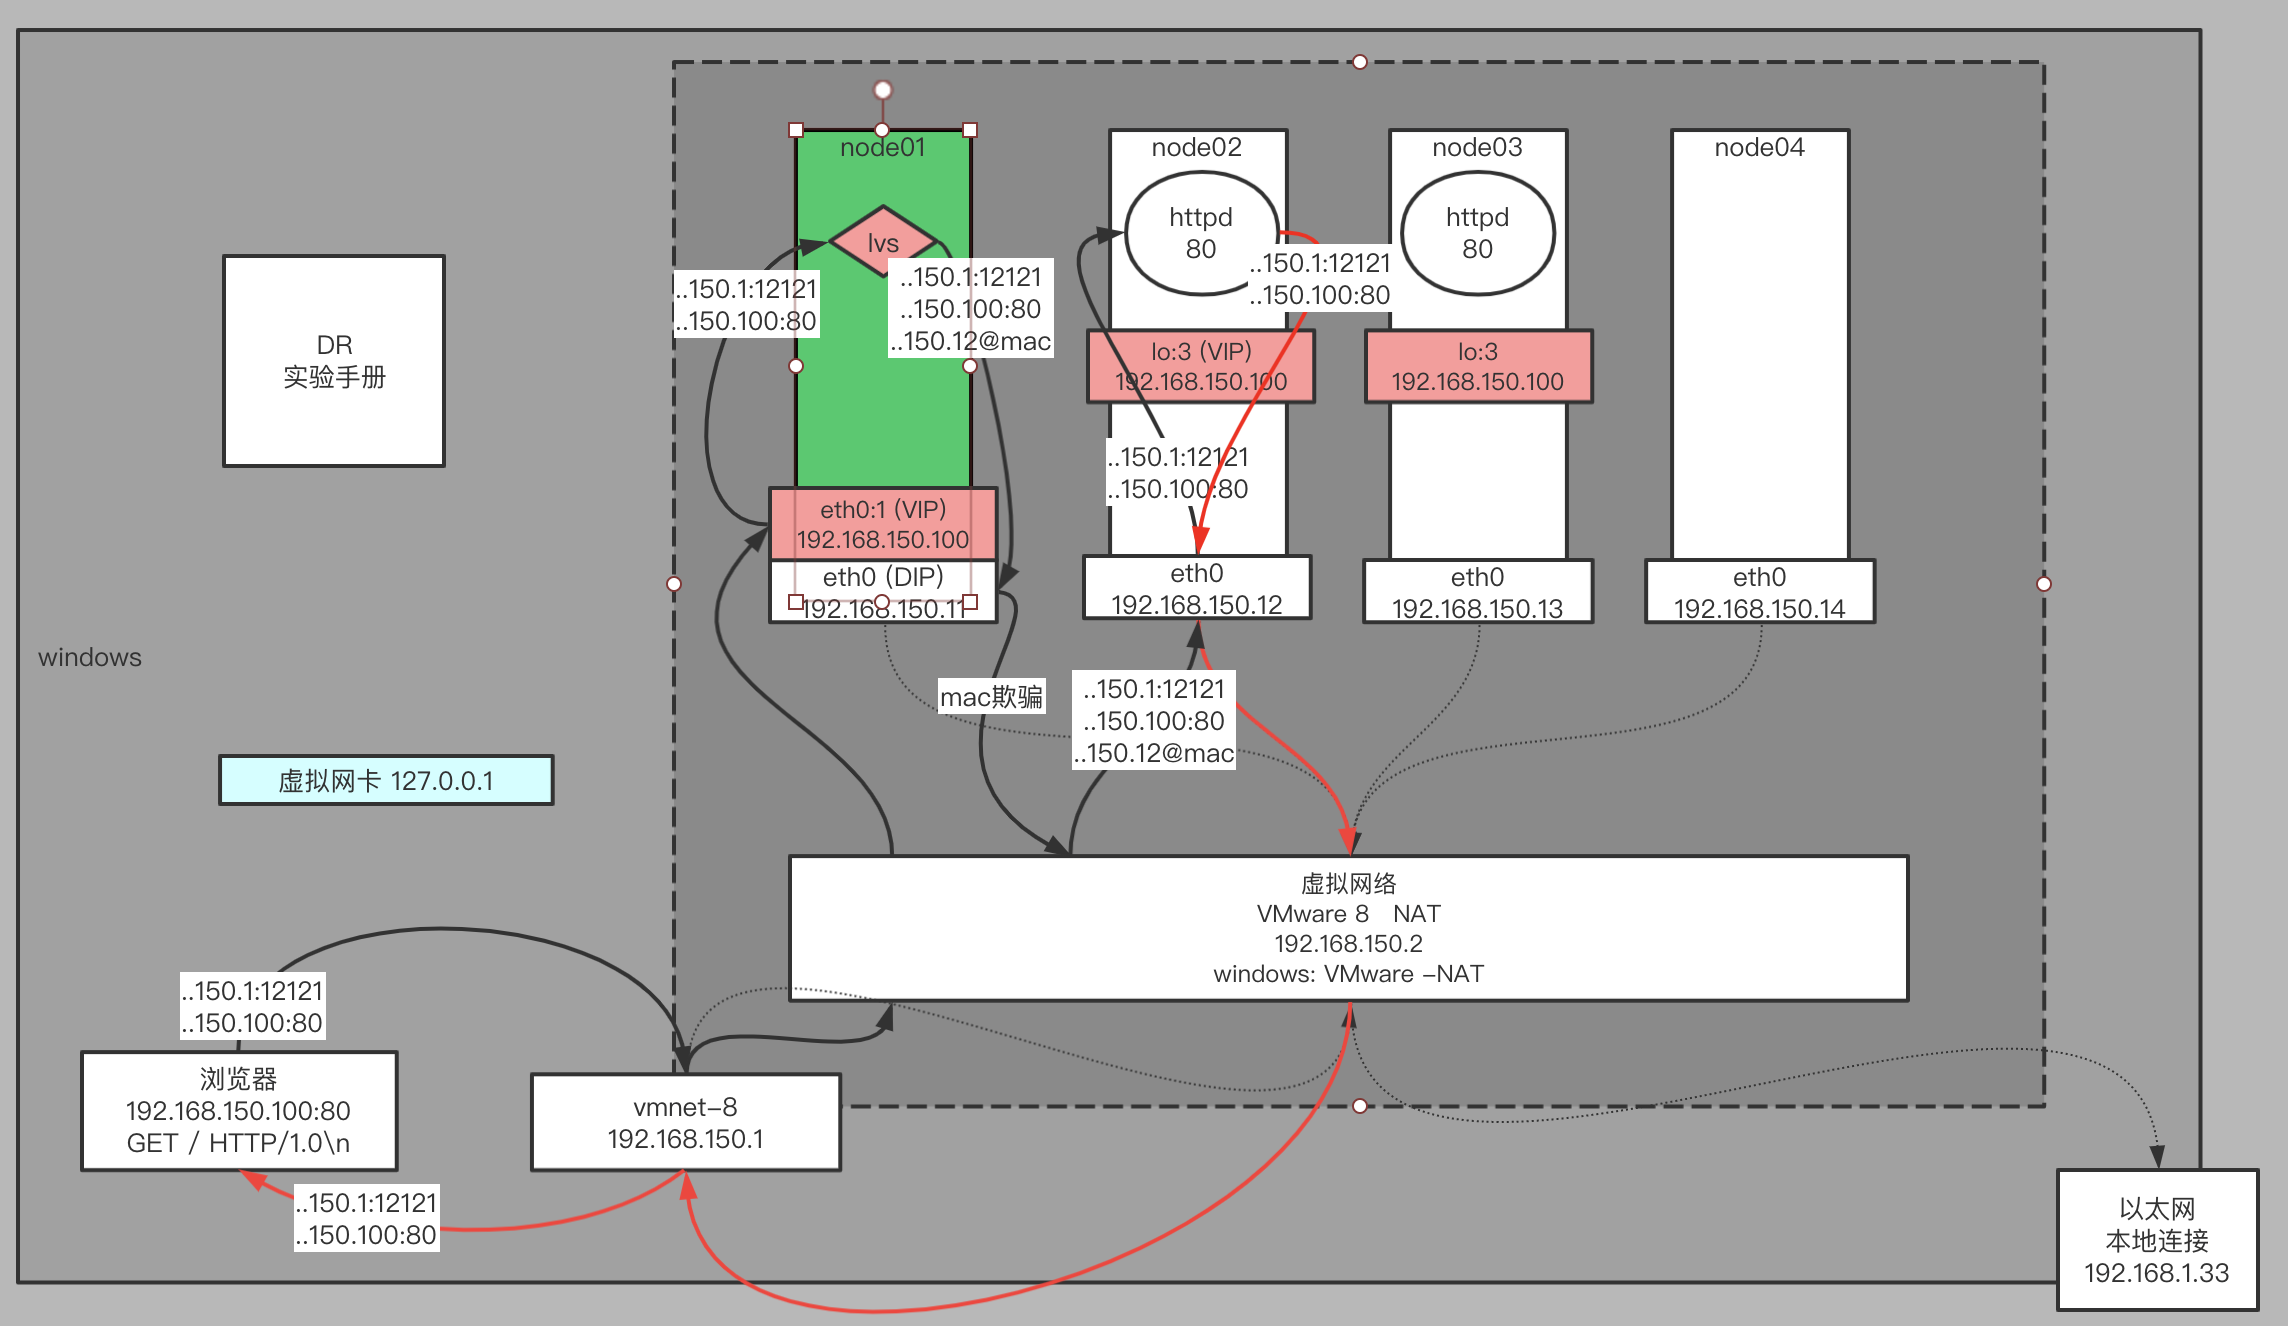
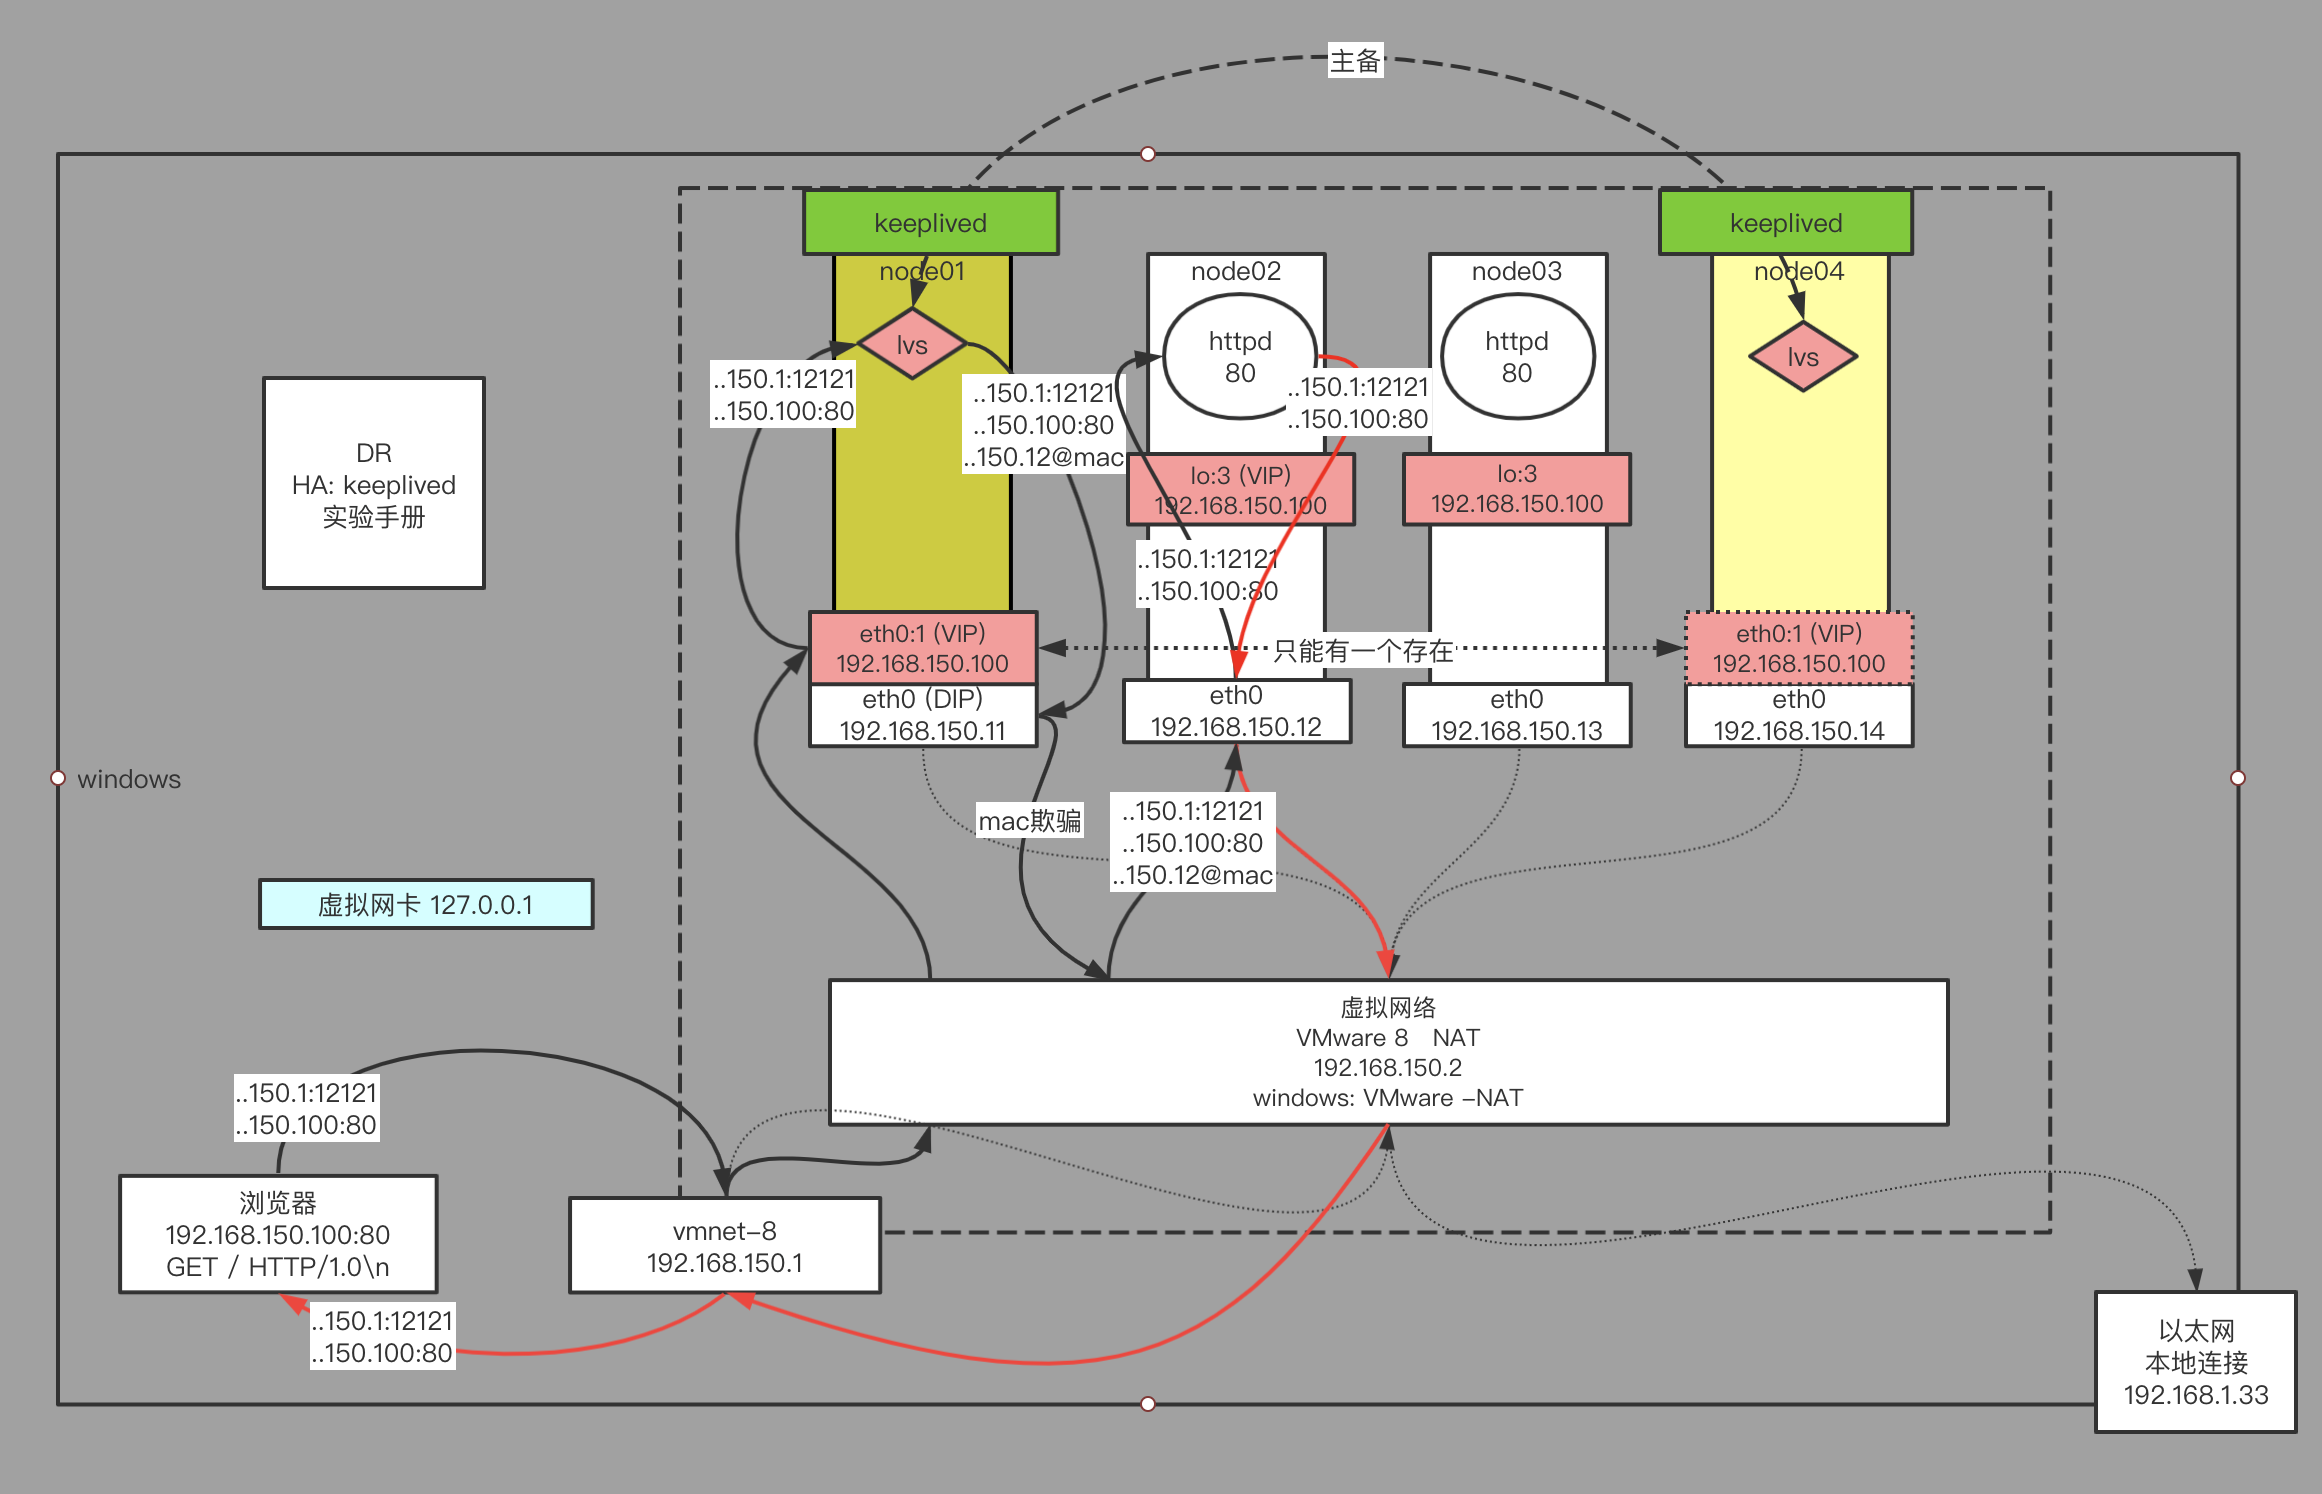
网络到分布式-lvs

diff --git a/src/main/resources/templates/study/02-p8/网络到分布式-01_LVS.html b/src/main/resources/templates/study/02-p8/网络到分布式-01_LVS.html
@@ -128,7 +128,7 @@
 
             tip: 香港买云主机 搭建VPN 内地连接 可实现翻墙
 
-    <h2 class="anchor">LVS</h2>
+    <h2 class="anchor">LVS负载均衡</h2>
     隐藏VIP方法：对外隐藏，对内可见
         kernel parameter:
         目标mac地址为全F，交换机触发广播
@@ -198,7 +198,6 @@
         载入此前的规则：-R
             ipvsadm -R < /path/form/somefile
     搭建
-        <img src="source/net-DCS/LVS-MODEl.png">
         node01(lvs server) 配置vip:
             ifconfig eth0:1 192.168.150.100/24
                 或: ifconfig eth0:1 192.168.150.100 netmask 255.255.255.0
@@ -239,11 +238,32 @@
                 SYN_RECV： 基本上lvs都记录了，证明lvs没事，一定是后边网络层出问题
                     握手发送 没收到确认包
 
+    <img src="source/net-DCS/LVS-MODEl.png">
 
-
-
-
-
+    <h2 class="anchor">keeplived高可用</h2>
+    主备 主(单点→主备)从
+    问题
+        1 lvs会挂: 业务下线,单点故障
+            解决问题
+                单点故障: 一个有问题 那么用一堆 一变多 vip唯一,所以不能实现
+                2个思路 多点: 主备 主主
+            结论: 先讨论主备
+                方向性:
+                    备→主 每隔一段时间去看一下
+                    主→备 主定时发广播
+                效率性:  权重
+        2 RS会挂,一部分用户会请求异常,lvs还存有这个RS的负载记录
+            如何确定RS挂了: 验证应用层的http协议 发请求 判断返回==200
+                ping是不对的 因为验证的网络层 连握手层(传输控制层)都不到
+            解决:
+                ipvs改源码
+                第三方实现,keepalived,代替人自动运维,解决单点故障,实现HA高可用
+                    1 监控自己的服务
+                    2 master通告自己还活着, backup监听master状态,master挂了,一堆backup推举出一个新master
+                    3 配置vip,添加ipvs,keeplived有配置文件
+                    4 后端server做健康检查
+    keeplived是一个通用的工具,主要作为HA(高可用)实现
+    nginx,可以做负载均衡,但有单点故障,也可用keeplived解决
 
 
 keepalived实验：
@@ -313,7 +333,7 @@ node01,node04:
 
 
     <h2 class="anchor">...</h2>
-    最后一节
+    最后一节 58:00
 
 </pre>
 
